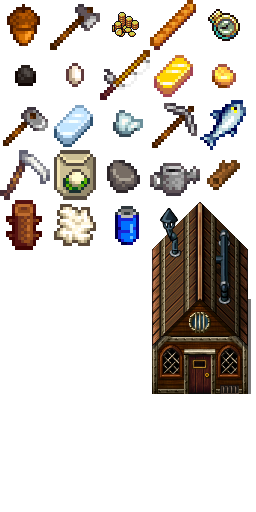
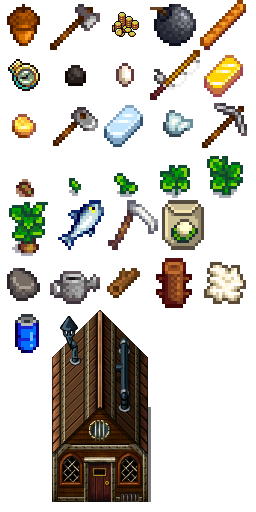
Added the Crops class and some placeholder potato plants.

diff --git a/core/src/com/binarybrains/sprout/entity/crop/Crop.java b/core/src/com/binarybrains/sprout/entity/crop/Crop.java
@@ -1,0 +1,20 @@
+package com.binarybrains.sprout.entity.crop;
+
+import com.badlogic.gdx.math.Vector2;
+import com.binarybrains.sprout.entity.Entity;
+import com.binarybrains.sprout.level.Level;
+
+/**
+ * Created by erikl on 01/03/17.
+ */
+public class Crop extends Entity {
+
+    public Crop(Level level, Vector2 position, float width, float height) {
+        super(level, position, width, height);
+    }
+
+    @Override
+    public void update(float deltaTime) {
+        super.update(deltaTime);
+    }
+}

diff --git a/core/src/com/binarybrains/sprout/entity/tree/Tree.java b/core/src/com/binarybrains/sprout/entity/tree/Tree.java
@@ -103,9 +103,7 @@ public class Tree extends Entity { // extends Vegitation or ?
             ToolItem toolItem = (ToolItem) item;
             if (toolItem.tool instanceof Axe) {
                 //toolItem.tool.use(); send tile
-
                 hurt(player.getLevel(), 1);
-
                 return true;
             }
         }
